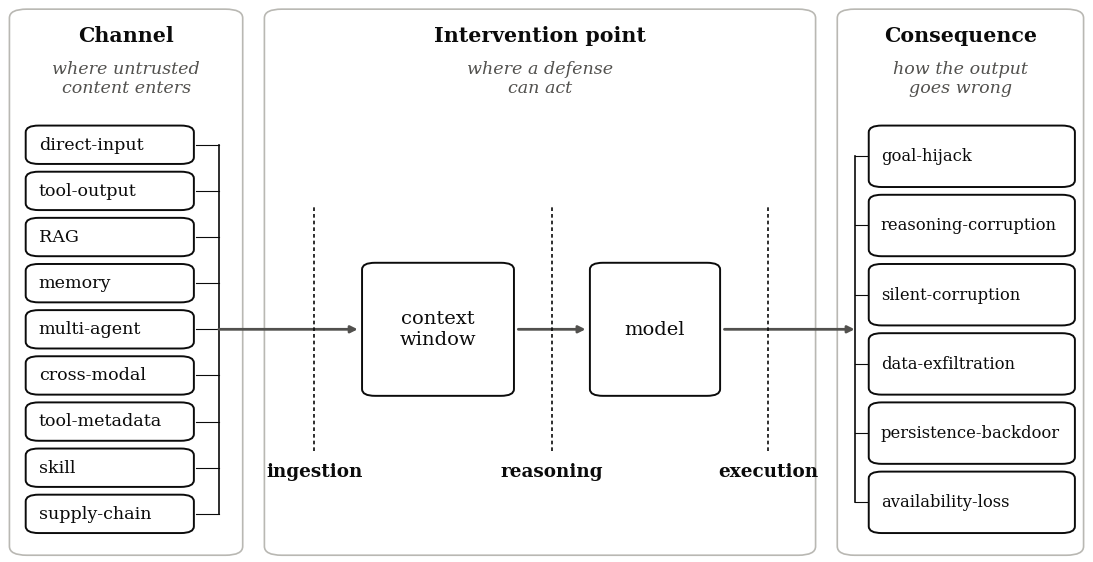
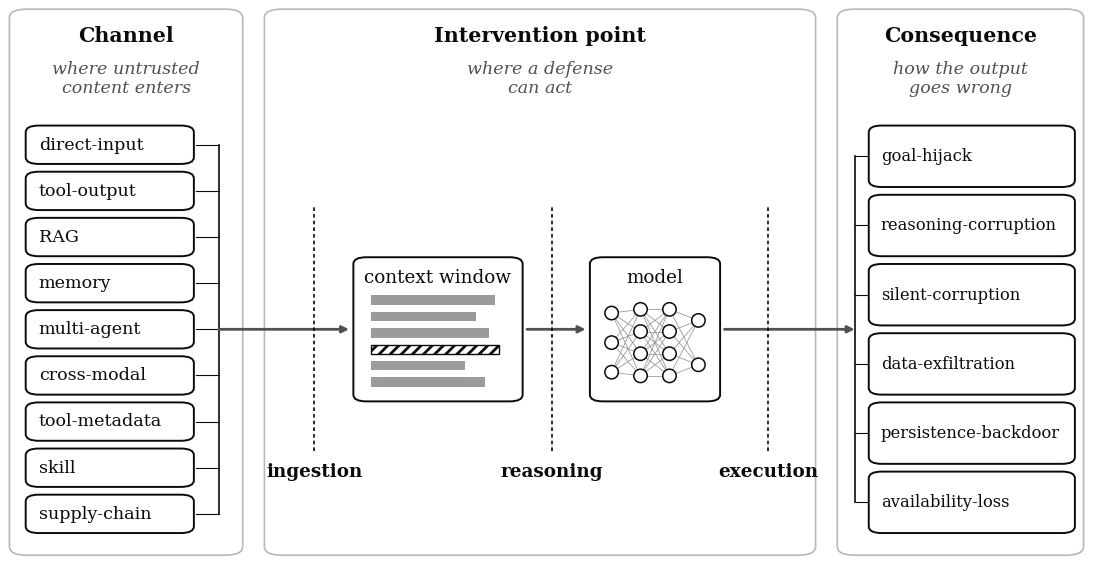
Draw what the context window and the model are in Figure 2
The context window is a page of text lines with one hatched, untrusted
content sitting beside trusted text; the model is a small layered
network. Both are ink only. The caption names the hatched line.

Changed region(s): [[0.3111, 0.4537, 0.4977, 0.726], [0.5288, 0.5445, 0.6532, 0.726], [0.5288, 0.4537, 0.6532, 0.5142]]

diff --git a/scripts/gen_taxonomy_figure.py b/scripts/gen_taxonomy_figure.py
@@ -29,7 +29,7 @@ import sys
 import matplotlib
 matplotlib.use("Agg")
 import matplotlib.pyplot as plt
-from matplotlib.patches import FancyBboxPatch, FancyArrowPatch
+from matplotlib.patches import FancyBboxPatch, FancyArrowPatch, Rectangle, Ellipse
 
 REPO = pathlib.Path(__file__).resolve().parent.parent
 R = REPO / "data" / "registries"
@@ -134,12 +134,58 @@ def main():
     ax.plot([BUS, BUS], [bot + h / 2, top - h / 2], lw=0.6, color=INK,
             zorder=1)
     mid = (top + bot) / 2
-    arrow(ax, BUS, mid, 32.6, mid, lw=1.0, color=INK2)
+    arrow(ax, BUS, mid, 31.8, mid, lw=1.0, color=INK2)
 
     # ---- the pipeline ------------------------------------------------------
-    box(ax, 33, mid - 12, 14, 24, "context\nwindow", "#ffffff", INK, fs=7)
-    box(ax, 54, mid - 12, 12, 24, "model", "#ffffff", INK, fs=7)
-    arrow(ax, 47.4, mid, 53.6, mid, lw=1.0, color=INK2)
+    # Each box carries a glyph of what it is, label on top. The context
+    # window is a page of text lines, one of them hatched: untrusted content
+    # sits in the same window as everything else, which is the problem the
+    # taxonomy describes. The model is a small layered network. Both are
+    # ink only, so they survive a greyscale print.
+    CW = (32.2, mid - 13, 15.6, 26)      # x, y, w, h
+    MD = (54, mid - 13, 12, 26)
+    box(ax, *CW, "", "#ffffff", INK)
+    box(ax, *MD, "", "#ffffff", INK)
+    ax.text(CW[0] + CW[2] / 2, CW[1] + CW[3] - 3.6, "context window",
+            ha="center", va="center", fontsize=6.6, color=INK)
+    ax.text(MD[0] + MD[2] / 2, MD[1] + MD[3] - 3.6, "model",
+            ha="center", va="center", fontsize=6.6, color=INK)
+
+    # text lines; widths vary as a paragraph's do, the hatched one is the
+    # untrusted passage
+    widths = (0.92, 0.78, 0.88, 0.95, 0.70, 0.85)
+    lx, lw_ = CW[0] + 1.6, CW[2] - 3.2
+    ly, lh, lstep = CW[1] + CW[3] - 8.6, 1.7, 2.95
+    for k, wf in enumerate(widths):
+        y = ly - k * lstep
+        hatched = k == 3
+        ax.add_patch(Rectangle((lx, y), lw_ * wf, lh,
+                               facecolor="#ffffff" if hatched else "#9c9b97",
+                               edgecolor=INK if hatched else "none",
+                               hatch="//////" if hatched else None,
+                               linewidth=0.5))
+
+    # a 3-4-4-2 network; x and y units differ (7 in by 3.6 in), so nodes are
+    # ellipses in data units that render round
+    layers = (3, 4, 4, 2)
+    gx0, gx1 = MD[0] + 2.0, MD[0] + MD[2] - 2.0
+    gy0, gy1 = MD[1] + 2.6, MD[1] + MD[3] - 7.4
+    rx = 0.62
+    ry = rx * FULL / 3.6
+    pos = []
+    for li, m in enumerate(layers):
+        x = gx0 + li * (gx1 - gx0) / (len(layers) - 1)
+        ys = [gy0 + (gy1 - gy0) * (j + 0.5) / m for j in range(m)]
+        pos.append([(x, y) for y in ys])
+    for a, b in zip(pos, pos[1:]):
+        for (x1, y1) in a:
+            for (x2, y2) in b:
+                ax.plot([x1, x2], [y1, y2], lw=0.3, color="#9c9b97", zorder=2)
+    for layer in pos:
+        for (x, y) in layer:
+            ax.add_patch(Ellipse((x, y), 2 * rx, 2 * ry, facecolor="#ffffff",
+                                 edgecolor=INK, linewidth=0.55, zorder=3))
+    arrow(ax, 48.2, mid, 53.6, mid, lw=1.0, color=INK2)
     arrow(ax, 66.4, mid, RBUS, mid, lw=1.0, color=INK2)
 
     # ---- the three intervention points -------------------------------------

diff --git a/latex/sections/03-literatures.tex b/latex/sections/03-literatures.tex
@@ -40,8 +40,9 @@ venue stands behind.
 \centering
 \includegraphics[width=\textwidth]{figures/fig0_pipeline}
 \caption{The taxonomy against the system it describes. Untrusted content
-arrives through one of \NChannelCats{} \textbf{channels}, enters one context
-window, and the output fails as one of \NConseqCats{} \textbf{consequences}.
+arrives through one of \NChannelCats{} \textbf{channels} and enters one context
+window, where it sits beside trusted text (the hatched line); the output fails
+as one of \NConseqCats{} \textbf{consequences}.
 A defense can intervene at one of three points between them.}
 \label{fig:pipeline}
 \end{figure*}
